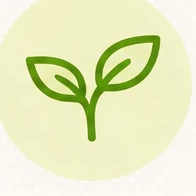
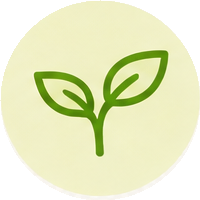
Swap in real transparent illustration assets from the package
Replace the cropped stopgaps with the true transparent PNGs (hero salad +
7 circular card illustrations) from the AyuRaise asset package. Removes the
hero halo and gives crisp icons. Ease icon zoom to 1.05 so circles aren't
over-cropped. No layout/content changes.

Claude-Session: https://claude.ai/code/session_01BSP6KZBWtqDLKwcQDHhicq

diff --git a/src/routes/stitch-preview.$screen.tsx b/src/routes/stitch-preview.$screen.tsx
@@ -1110,7 +1110,7 @@ function NWWeightLoss() {
           <div className="space-y-1.5">
             {WL_CARDS.map(([title, sub, icon, bg, fg, img]) => (
               <div key={title} className="group flex cursor-pointer items-center gap-3 rounded-[20px] border px-3 py-2 shadow-[0_1px_5px_rgba(90,60,40,0.045)] transition-all active:scale-[0.99]" style={{ background: "#FFFDF9", borderColor: "#F4EEE5" }}>
-                <div className="relative flex h-11 w-11 shrink-0 items-center justify-center overflow-hidden rounded-full" style={{ background: bg, color: fg }}><MS name={icon} size={22} /><img src={`/images/weightloss/${img}`} alt="" className="absolute inset-0 h-full w-full scale-[1.12] object-cover" onError={(e) => { e.currentTarget.style.display = "none"; }} /></div>
+                <div className="relative flex h-11 w-11 shrink-0 items-center justify-center overflow-hidden rounded-full" style={{ background: bg, color: fg }}><MS name={icon} size={22} /><img src={`/images/weightloss/${img}`} alt="" className="absolute inset-0 h-full w-full scale-[1.05] object-cover" onError={(e) => { e.currentTarget.style.display = "none"; }} /></div>
                 <div className="min-w-0 flex-1">
                   <h2 className="text-[14.5px] font-semibold leading-snug" style={{ color: "#39332F" }}>{title}</h2>
                   <p className="text-[12px] leading-[1.35]" style={{ color: "#6B625B" }}>{sub}</p>
